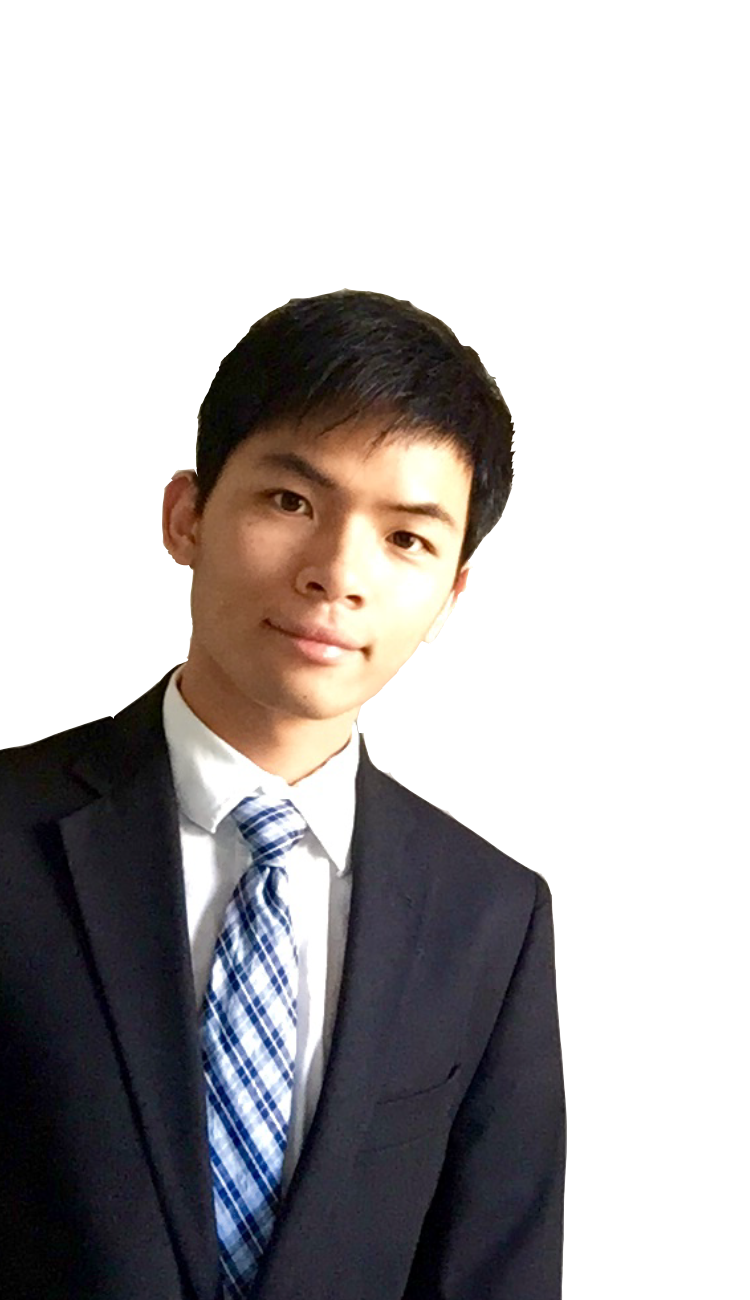
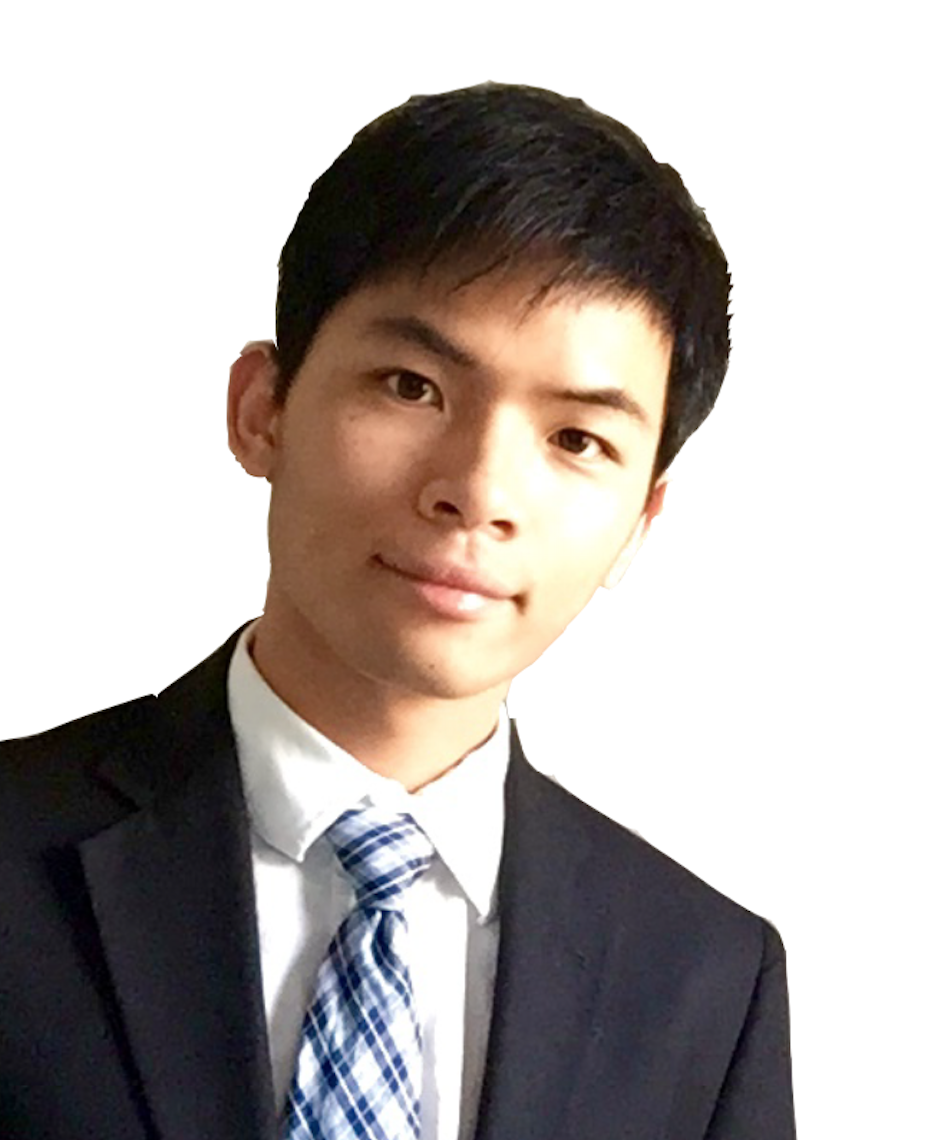
about page picture update

diff --git a/about/index.html b/about/index.html
@@ -92,7 +92,7 @@
       
       <div class="row featurette">
           <div class="col-md-5">
-          <img class="featurette-image img-responsive center-block" data-src="holder.js/500x500/auto" alt="500x500" src="profile.PNG" data-holder-rendered="true">
+          <img class="featurette-image img-responsive center-block" data-src="holder.js/500x500/auto" alt="500x500" src="profilePNG.png" data-holder-rendered="true">
         </div>
         <div class="col-md-7">
           <h2 class="featurette-heading">Amazing summer at GE Healthcare. <span class="text-muted"></span></h2>
